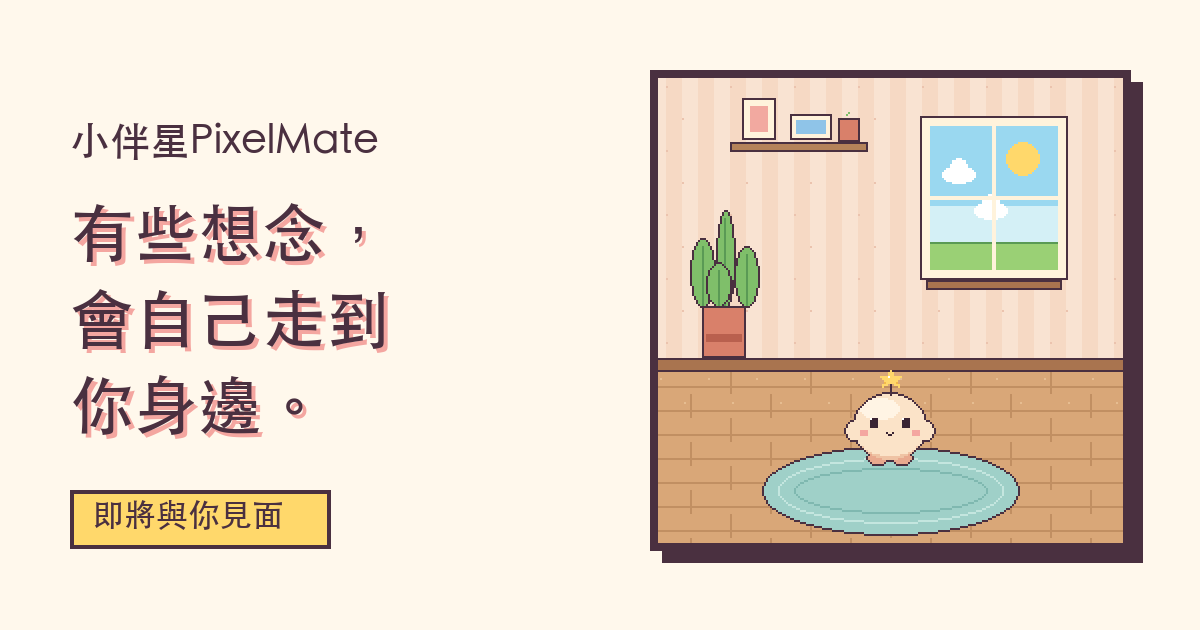
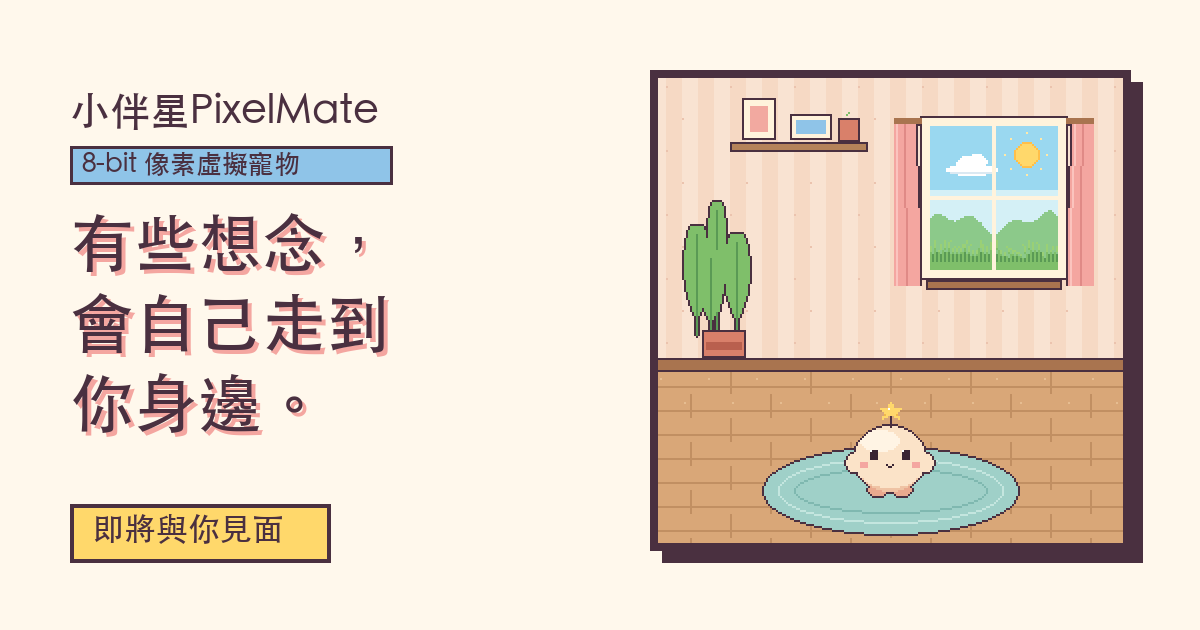
feat(web): richer title/description, search verification, OG cover, hero preload

diff --git a/apps/web/src/views/HomeView.vue b/apps/web/src/views/HomeView.vue
@@ -1,6 +1,8 @@
 <script setup lang="ts">
 import { useHead } from '@unhead/vue'
 import HeroSection from '@/components/business/HeroSection.vue'
+import roomImg from '@/assets/pixel/room.png'
+import petIdleImg from '@/assets/pixel/pet_idle.png'
 import DailySection from '@/components/business/DailySection.vue'
 import MailSection from '@/components/business/MailSection.vue'
 import DressSection from '@/components/business/DressSection.vue'
@@ -8,9 +10,9 @@ import WeatherSection from '@/components/business/WeatherSection.vue'
 import PlatformsSection from '@/components/business/PlatformsSection.vue'
 import ComingSoonSection from '@/components/business/ComingSoonSection.vue'
 
-const TITLE = '小伴星PixelMate｜即將與你見面'
+const TITLE = '小伴星PixelMate｜8-bit 像素虛擬寵物，即將與你見面'
 const DESCRIPTION =
-  '小伴星PixelMate 是一隻會陪你生活、陪你成長，也會幫你把心意送到遠方的像素小夥伴。即將與你見面。'
+  '小伴星PixelMate 是一款 8-bit 像素風虛擬寵物：牠在小房間裡過自己的日子，能換帽子、圍巾與藍白拖，也會替你把遠方的信送到身邊。即將推出手機 PWA，之後加入桌面小螢幕。'
 const siteUrl = (import.meta.env.VITE_SITE_URL as string | undefined)?.replace(/\/$/, '')
 
 const jsonLd = {
@@ -29,6 +31,8 @@ useHead({
   script: [{ type: 'application/ld+json', innerHTML: JSON.stringify(jsonLd) }],
   meta: [
     { name: 'description', content: DESCRIPTION },
+    { name: 'google-site-verification', content: '_WoQRI7EiUJTqIH-UaxEPAWMMpzPRHCIM5J-cE4KwQ8' },
+    { name: 'robots', content: 'index, follow, max-image-preview:large' },
     { property: 'og:type', content: 'website' },
     { property: 'og:locale', content: 'zh_TW' },
     { property: 'og:title', content: TITLE },
@@ -37,6 +41,9 @@ useHead({
     { name: 'twitter:title', content: TITLE },
     { name: 'twitter:description', content: DESCRIPTION },
     { property: 'og:site_name', content: '小伴星PixelMate' },
+    { property: 'og:image:type', content: 'image/png' },
+    { property: 'og:image:width', content: '1200' },
+    { property: 'og:image:height', content: '630' },
     { property: 'og:image:alt', content: '一隻像素小夥伴待在溫暖的小房間裡，旁邊寫著「有些想念，會自己走到你身邊」' },
     ...(siteUrl
       ? [
@@ -46,7 +53,12 @@ useHead({
         ]
       : []),
   ],
-  link: siteUrl ? [{ rel: 'canonical', href: `${siteUrl}/` }] : [],
+  link: [
+    // 首屏必要的像素圖提早載入
+    { rel: 'preload', as: 'image', href: roomImg, fetchpriority: 'high' },
+    { rel: 'preload', as: 'image', href: petIdleImg },
+    ...(siteUrl ? [{ rel: 'canonical', href: `${siteUrl}/` }] : []),
+  ],
 })
 </script>
 

diff --git a/apps/web/index.html b/apps/web/index.html
@@ -11,7 +11,7 @@
     <meta name="referrer" content="strict-origin-when-cross-origin" />
     <link rel="icon" type="image/png" sizes="32x32" href="/favicon-32.png" />
     <link rel="apple-touch-icon" href="/apple-touch-icon.png" />
-    <title>小伴星PixelMate｜即將與你見面</title>
+    <title>小伴星PixelMate｜8-bit 像素虛擬寵物，即將與你見面</title>
   </head>
   <body>
     <div id="app"></div>

diff --git a/apps/web/src/assets/styles/base.css b/apps/web/src/assets/styles/base.css
@@ -56,3 +56,13 @@ img {
   }
 }
 html { scroll-behavior: smooth; }
+
+/* 首屏以下的區塊：進入視窗才渲染，減少離螢幕動畫與繪製成本 */
+#daily,
+#mail,
+#dress,
+#weather,
+#platforms {
+  content-visibility: auto;
+  contain-intrinsic-size: auto 720px;
+}

diff --git a/tools/pixel-art/brand.py b/tools/pixel-art/brand.py
@@ -13,9 +13,16 @@ touch.save(PUB + "/apple-touch-icon.png")
 
 og = Image.new("RGBA", (1200, 630), "#fff8ec")
 room = Image.open(SRC + "/room.png").convert("RGBA")
-win = Image.open(SRC + "/window_sunny.png").convert("RGBA")
+def L(n): return Image.open(SRC + "/" + n).convert("RGBA")
+win = L("window_sky_sunny.png")
+win.alpha_composite(L("sun.png").crop((0, 0, 24, 24)), (36, 2))
+win.alpha_composite(L("cloud_white.png"), (8, 14))
+win.alpha_composite(L("grass_day.png").crop((0, 0, 64, 16)), (0, 56))
+win.alpha_composite(L("window_bars.png"))
 scene = Image.new("RGBA", (240, 240)); scene.alpha_composite(win, (140, 28)); scene.alpha_composite(room)
-scene.alpha_composite(idle, (96, 150))
+scene.alpha_composite(L("plant.png").crop((0, 0, 44, 80)), (15, 64))
+scene.alpha_composite(L("curtain_l.png").crop((0, 0, 14, 84)), (122, 24)); scene.alpha_composite(L("curtain_r.png").crop((0, 0, 14, 84)), (208, 24))
+scene.alpha_composite(idle, (96, 166))
 big = scene.resize((480, 480), Image.NEAREST)
 d = ImageDraw.Draw(og)
 d.rectangle((650 + 12, 70 + 12, 650 + 12 + 480, 70 + 12 + 480), fill="#4a3040")
@@ -25,10 +32,13 @@ font_path = "/System/Library/Fonts/STHeiti Medium.ttc"
 f_big = ImageFont.truetype(font_path, 64, index=0) if True else None
 f_mid = ImageFont.truetype(font_path, 32, index=0)
 f_br = ImageFont.truetype(font_path, 40, index=0)
-d.text((70, 120), "小伴星PixelMate", font=f_br, fill="#4a3040")
+d.text((70, 90), "小伴星PixelMate", font=f_br, fill="#4a3040")
+f_tag = ImageFont.truetype(font_path, 26, index=0)
+d.rectangle((70, 146, 392, 184), fill="#8fc4e8", outline="#4a3040", width=3)
+d.text((82, 150), "8-bit 像素虛擬寵物", font=f_tag, fill="#4a3040")
 for i, line in enumerate(["有些想念，", "會自己走到", "你身邊。"]):
-    d.text((70 + 4, 200 + i * 86 + 4), line, font=f_big, fill="#f4a6a0")
-    d.text((70, 200 + i * 86), line, font=f_big, fill="#4a3040")
-d.rectangle((70, 490, 330, 548), fill="#ffd86b", outline="#4a3040", width=4)
-d.text((92, 498), "即將與你見面", font=f_mid, fill="#4a3040")
+    d.text((70 + 4, 210 + i * 80 + 4), line, font=f_big, fill="#f4a6a0")
+    d.text((70, 210 + i * 80), line, font=f_big, fill="#4a3040")
+d.rectangle((70, 504, 330, 562), fill="#ffd86b", outline="#4a3040", width=4)
+d.text((92, 512), "即將與你見面", font=f_mid, fill="#4a3040")
 og.convert("RGB").save(PUB + "/og-image.png")
